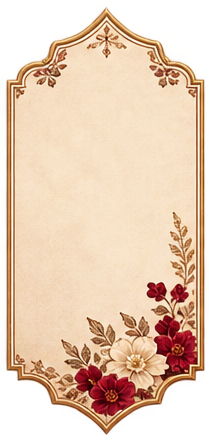
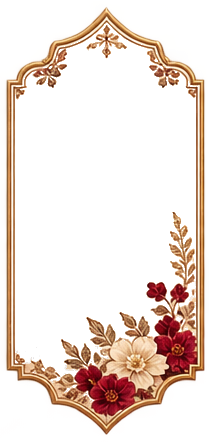
feat(undangan_9): switch hero portrait frame to ornate cartouche bingkai_2.png

diff --git a/undangan_9/css/style.css b/undangan_9/css/style.css
@@ -2467,3 +2467,12 @@ body {
     transform: rotate(1.5deg) translate(1px, 0.5px);
   }
 }
+
+/* ==========================================================
+   HERO ORNATE CARTOUCHE PORTRAIT APERTURE (bingkai_2.png)
+   Exact contoured clip-path tucked inside the double gold border
+   ========================================================== */
+.hero-bingkai2-aperture {
+  -webkit-clip-path: polygon(50.48% 2.93%, 51.44% 3.39%, 52.87% 4.06%, 54.31% 4.74%, 56.22% 5.42%, 57.66% 6.09%, 59.57% 6.77%, 61.96% 7.45%, 65.31% 8.13%, 69.62% 8.80%, 73.92% 9.48%, 74.88% 10.16%, 75.36% 10.84%, 75.84% 11.51%, 76.32% 12.19%, 77.75% 12.87%, 78.71% 13.54%, 84.93% 14.22%, 87.80% 14.90%, 88.76% 15.58%, 89.71% 16.25%, 90.67% 16.93%, 91.15% 17.61%, 94.98% 18.28%, 94.98% 21.44%, 94.98% 78.56%, 94.98% 83.30%, 91.15% 83.97%, 91.15% 85.33%, 82.54% 86.00%, 79.67% 86.68%, 77.75% 87.36%, 76.79% 88.04%, 75.84% 88.71%, 75.36% 89.39%, 74.88% 90.07%, 74.88% 90.74%, 68.18% 91.42%, 63.88% 92.10%, 61.00% 92.78%, 59.09% 93.45%, 57.18% 94.13%, 55.26% 94.81%, 53.35% 95.49%, 51.91% 96.16%, 50.72% 96.61%, 49.52% 96.16%, 48.09% 95.49%, 46.65% 94.81%, 44.74% 94.13%, 42.34% 93.45%, 40.43% 92.78%, 38.04% 92.10%, 33.25% 91.42%, 26.56% 90.74%, 26.56% 90.07%, 26.08% 89.39%, 25.60% 88.71%, 24.64% 88.04%, 23.68% 87.36%, 21.77% 86.68%, 19.38% 86.00%, 10.77% 85.33%, 10.29% 83.97%, 5.50% 83.30%, 5.50% 78.56%, 5.50% 21.44%, 5.50% 18.28%, 10.29% 17.61%, 10.29% 16.93%, 11.24% 16.25%, 11.72% 15.58%, 13.64% 14.90%, 16.03% 14.22%, 22.25% 13.54%, 24.16% 12.87%, 25.12% 12.19%, 25.60% 11.51%, 26.08% 10.84%, 26.56% 10.16%, 27.51% 9.48%, 32.30% 8.80%, 36.12% 8.13%, 39.47% 7.45%, 41.87% 6.77%, 43.78% 6.09%, 45.69% 5.42%, 46.65% 4.74%, 48.09% 4.06%, 49.52% 3.39%);
+  clip-path: polygon(50.48% 2.93%, 51.44% 3.39%, 52.87% 4.06%, 54.31% 4.74%, 56.22% 5.42%, 57.66% 6.09%, 59.57% 6.77%, 61.96% 7.45%, 65.31% 8.13%, 69.62% 8.80%, 73.92% 9.48%, 74.88% 10.16%, 75.36% 10.84%, 75.84% 11.51%, 76.32% 12.19%, 77.75% 12.87%, 78.71% 13.54%, 84.93% 14.22%, 87.80% 14.90%, 88.76% 15.58%, 89.71% 16.25%, 90.67% 16.93%, 91.15% 17.61%, 94.98% 18.28%, 94.98% 21.44%, 94.98% 78.56%, 94.98% 83.30%, 91.15% 83.97%, 91.15% 85.33%, 82.54% 86.00%, 79.67% 86.68%, 77.75% 87.36%, 76.79% 88.04%, 75.84% 88.71%, 75.36% 89.39%, 74.88% 90.07%, 74.88% 90.74%, 68.18% 91.42%, 63.88% 92.10%, 61.00% 92.78%, 59.09% 93.45%, 57.18% 94.13%, 55.26% 94.81%, 53.35% 95.49%, 51.91% 96.16%, 50.72% 96.61%, 49.52% 96.16%, 48.09% 95.49%, 46.65% 94.81%, 44.74% 94.13%, 42.34% 93.45%, 40.43% 92.78%, 38.04% 92.10%, 33.25% 91.42%, 26.56% 90.74%, 26.56% 90.07%, 26.08% 89.39%, 25.60% 88.71%, 24.64% 88.04%, 23.68% 87.36%, 21.77% 86.68%, 19.38% 86.00%, 10.77% 85.33%, 10.29% 83.97%, 5.50% 83.30%, 5.50% 78.56%, 5.50% 21.44%, 5.50% 18.28%, 10.29% 17.61%, 10.29% 16.93%, 11.24% 16.25%, 11.72% 15.58%, 13.64% 14.90%, 16.03% 14.22%, 22.25% 13.54%, 24.16% 12.87%, 25.12% 12.19%, 25.60% 11.51%, 26.08% 10.84%, 26.56% 10.16%, 27.51% 9.48%, 32.30% 8.80%, 36.12% 8.13%, 39.47% 7.45%, 41.87% 6.77%, 43.78% 6.09%, 45.69% 5.42%, 46.65% 4.74%, 48.09% 4.06%, 49.52% 3.39%);
+}

diff --git a/undangan_9/index.html b/undangan_9/index.html
@@ -325,11 +325,11 @@
         </div>
       </div>
 
-      <!-- Centerpiece Showcase: Royal Arched Couple Portrait + Heritage Masthead -->
-      <div class="relative z-10 w-full max-w-[356px] mx-auto pt-24 sm:pt-28 flex flex-col items-center my-auto">
+      <!-- Centerpiece Showcase: Royal Cartouche Couple Portrait + Heritage Masthead -->
+      <div class="relative z-10 w-full max-w-[356px] mx-auto pt-28 sm:pt-32 flex flex-col items-center my-auto">
 
-        <!-- Royal Arched Portrait Frame (bingkai_1.png with transparent aperture + full royal gebyok photo - Delay 3) -->
-        <div class="hero-anim hero-anim-main-photo hero-delay-3 relative w-[166px] sm:w-[184px] aspect-[242/502] mx-auto flex items-center justify-center">
+        <!-- Royal Ornate Cartouche Portrait Frame (bingkai_2.png with contoured aperture + full royal gebyok photo - Delay 3) -->
+        <div class="hero-anim hero-anim-main-photo hero-delay-3 relative w-[172px] sm:w-[190px] aspect-[209/443] mx-auto flex items-center justify-center">
 
           <!-- Flanking Left Hanging Gold Filigree (ukiran_gantung.png - Delay 4) -->
           <div class="absolute top-1/2 -translate-y-1/2 -left-8 sm:-left-10 w-6 sm:w-7 pointer-events-none select-none z-20" aria-hidden="true">
@@ -345,16 +345,16 @@
             </div>
           </div>
 
-          <!-- Inner Arched Couple Portrait fitted cleanly to bingkai_1.png -->
-          <div class="absolute inset-[3.5%] rounded-t-[82px] sm:rounded-t-[92px] overflow-hidden bg-[#3B080D] shadow-inner">
+          <!-- Inner Contoured Couple Portrait fitted cleanly inside bingkai_2.png -->
+          <div class="absolute inset-0 hero-bingkai2-aperture overflow-hidden bg-[#3B080D]">
             <img src="asset/img/mempelai/foto_editorial_hero.jpg"
                  alt="Mempelai Raka &amp; Sinta"
-                 class="w-full h-full object-cover object-[50%_20%]"
+                 class="w-full h-full object-cover object-[50%_18%]"
                  decoding="async">
           </div>
 
-          <!-- Golden Heritage Floral Arch Frame Overlay (bingkai_1.png) -->
-          <img src="asset/img/ornamen/bingkai_1.png"
+          <!-- Golden Heritage Ornate Cartouche Frame Overlay (bingkai_2.png) -->
+          <img src="asset/img/ornamen/bingkai_2.png"
                alt="Bingkai Emas Mempelai"
                class="relative z-10 w-full h-full pointer-events-none drop-shadow-[0_10px_24px_rgba(58,20,16,0.24)]"
                decoding="async">
